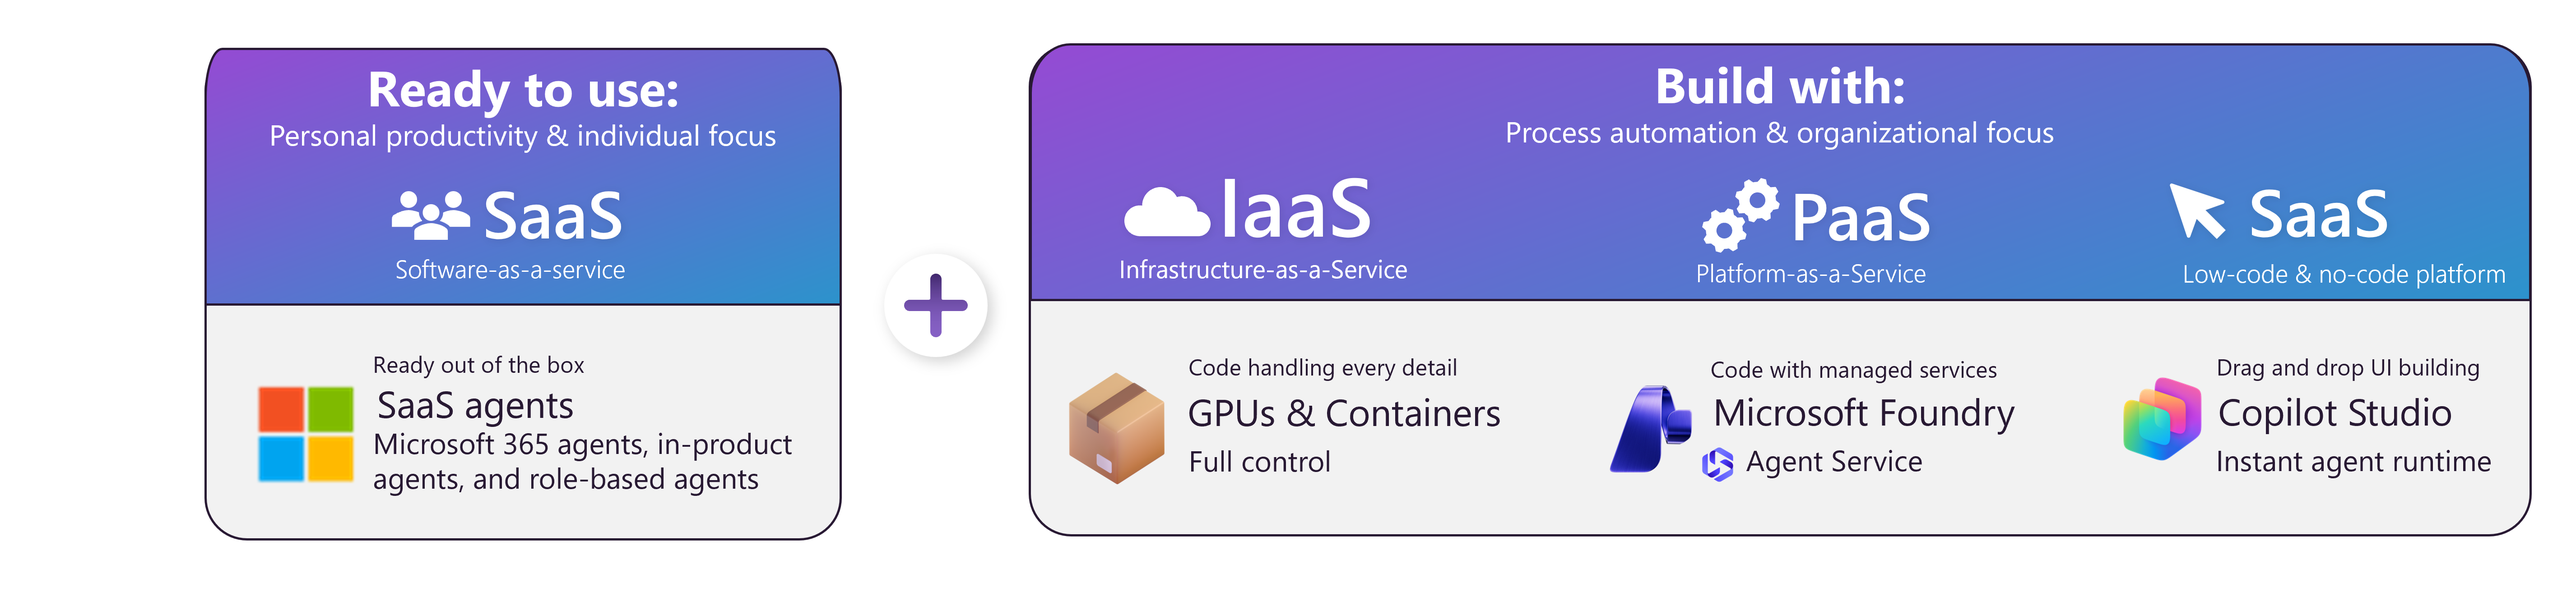
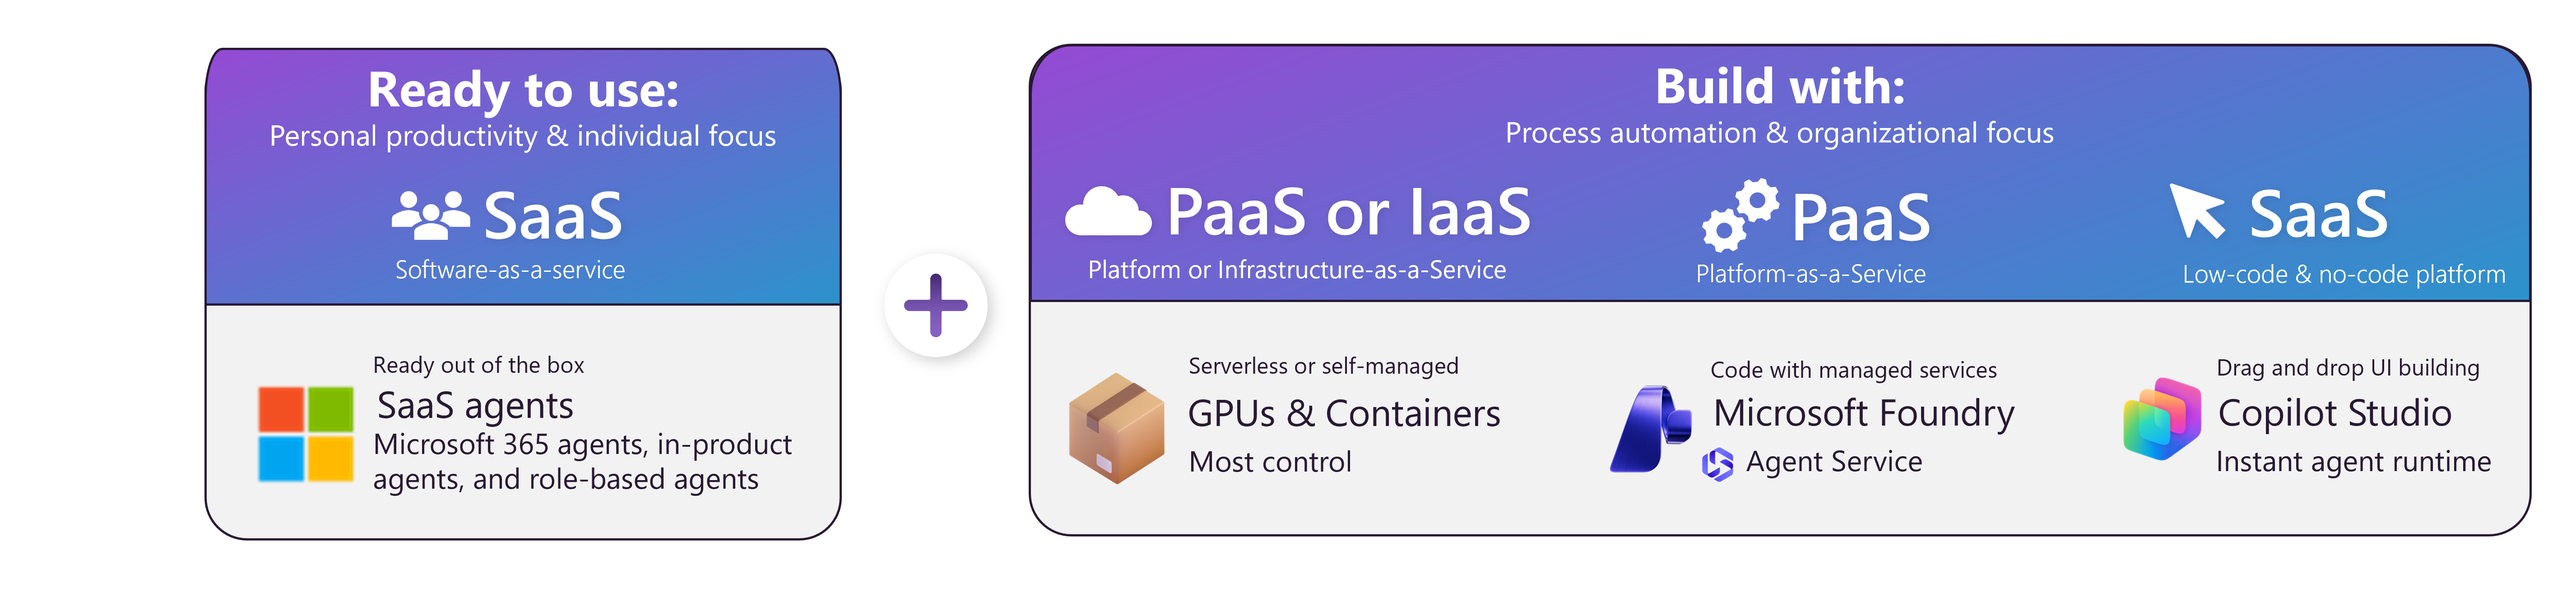
updates

diff --git a/docs/ai-agents/technology-solutions-plan-strategy.md b/docs/ai-agents/technology-solutions-plan-strategy.md
@@ -79,7 +79,7 @@ Test use cases with the [60-day free trial](/microsoft-copilot-studio/requiremen
 
 ### GPUs and containers
 
-You can also choose to deploy agents on GPU infrastructure using [Azure Container Apps serverless GPUs](/azure/container-apps/gpu-serverless-overview) (PaaS) or Azure Virtual Machines (IaaS). It can be useful when you need flexibility for custom configurations and integration with existing VM-based workloads. Use when you need granular control for AI performance, isolation, or compliance requirements. Costs scale with token consumption and compute usage. For more guidance, see [AI on IaaS](/azure/cloud-adoption-framework/scenarios/ai/infrastructure/cycle-cloud).
+You can also choose to deploy the AI models used by your agents on [Azure Container Apps serverless GPUs](/azure/container-apps/gpu-serverless-overview) (PaaS) or Azure Virtual Machines (IaaS). This approach is ideal when you need custom model configurations, private networking, or integration with existing VM-based workloads. Use GPU-backed infrastructure when you require high-performance inferencing, fine-tuning, or compliance-driven isolation. Costs scale with GPU runtime and token consumption. For detailed guidance, see [AI on IaaS](/azure/cloud-adoption-framework/scenarios/ai/infrastructure/cycle-cloud).
 
 ## Validate technology choices
 
@@ -98,7 +98,7 @@ Organizations often use multiple approaches to meet diverse requirements. Valida
 | **SaaS agents** | Ready-to-use (SaaS) | Retrieval, Task | Personal productivity. Requires minimal customization to deliver immediate value. |
 | **Microsoft Foundry** | Pro-code and low/no-code (PaaS) | Retrieval, Task, Autonomous | Strategic transformation. Supports deep integration and custom logic. |
 | **Microsoft Copilot Studio** | Low/no-code (SaaS) | Retrieval, Task, Autonomous | Process transformation. Enables fast development with minimal coding and SaaS security. |
-| **GPUs and containers** | Pro-code (PaaS or IaaS) | Retrieval, Task, Autonomous | Serverless or self-managed infrastructure. Provides full control of the entire technology stack. |
+| **GPUs and containers** | Pro-code (PaaS or IaaS) | Retrieval, Task, Autonomous | Provides full control of the entire technology stack. |
 
 See the general [AI decision tree](/azure/cloud-adoption-framework/scenarios/ai/strategy#microsoft-ai-decision-tree) for more guidance.
 
